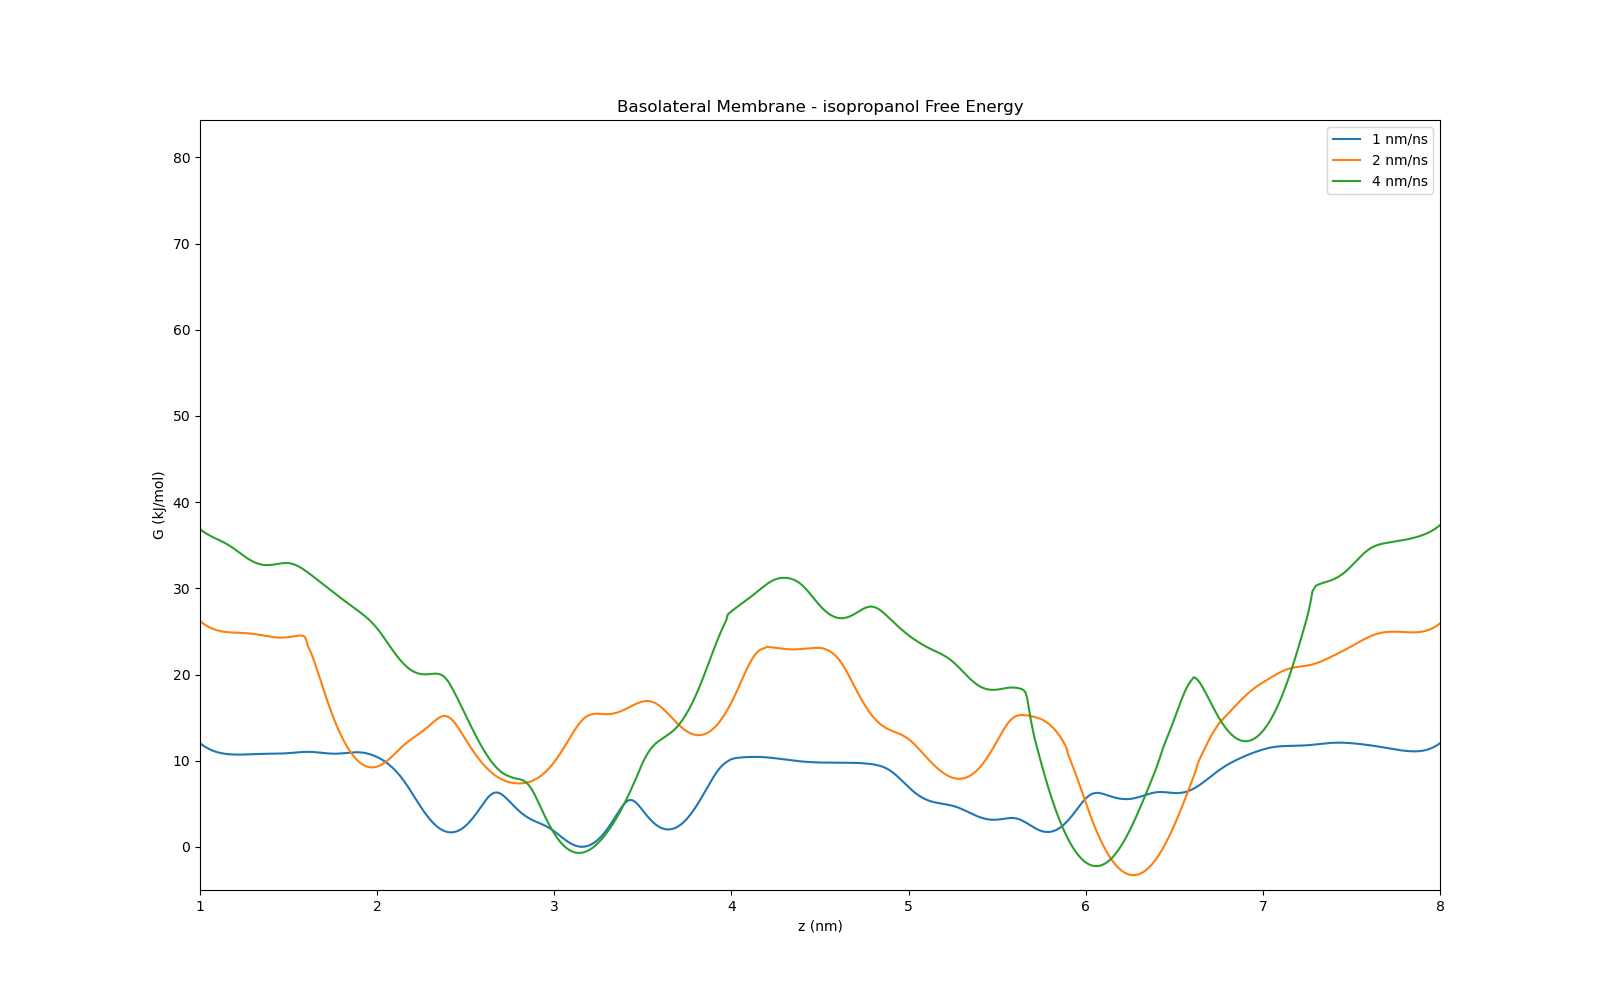
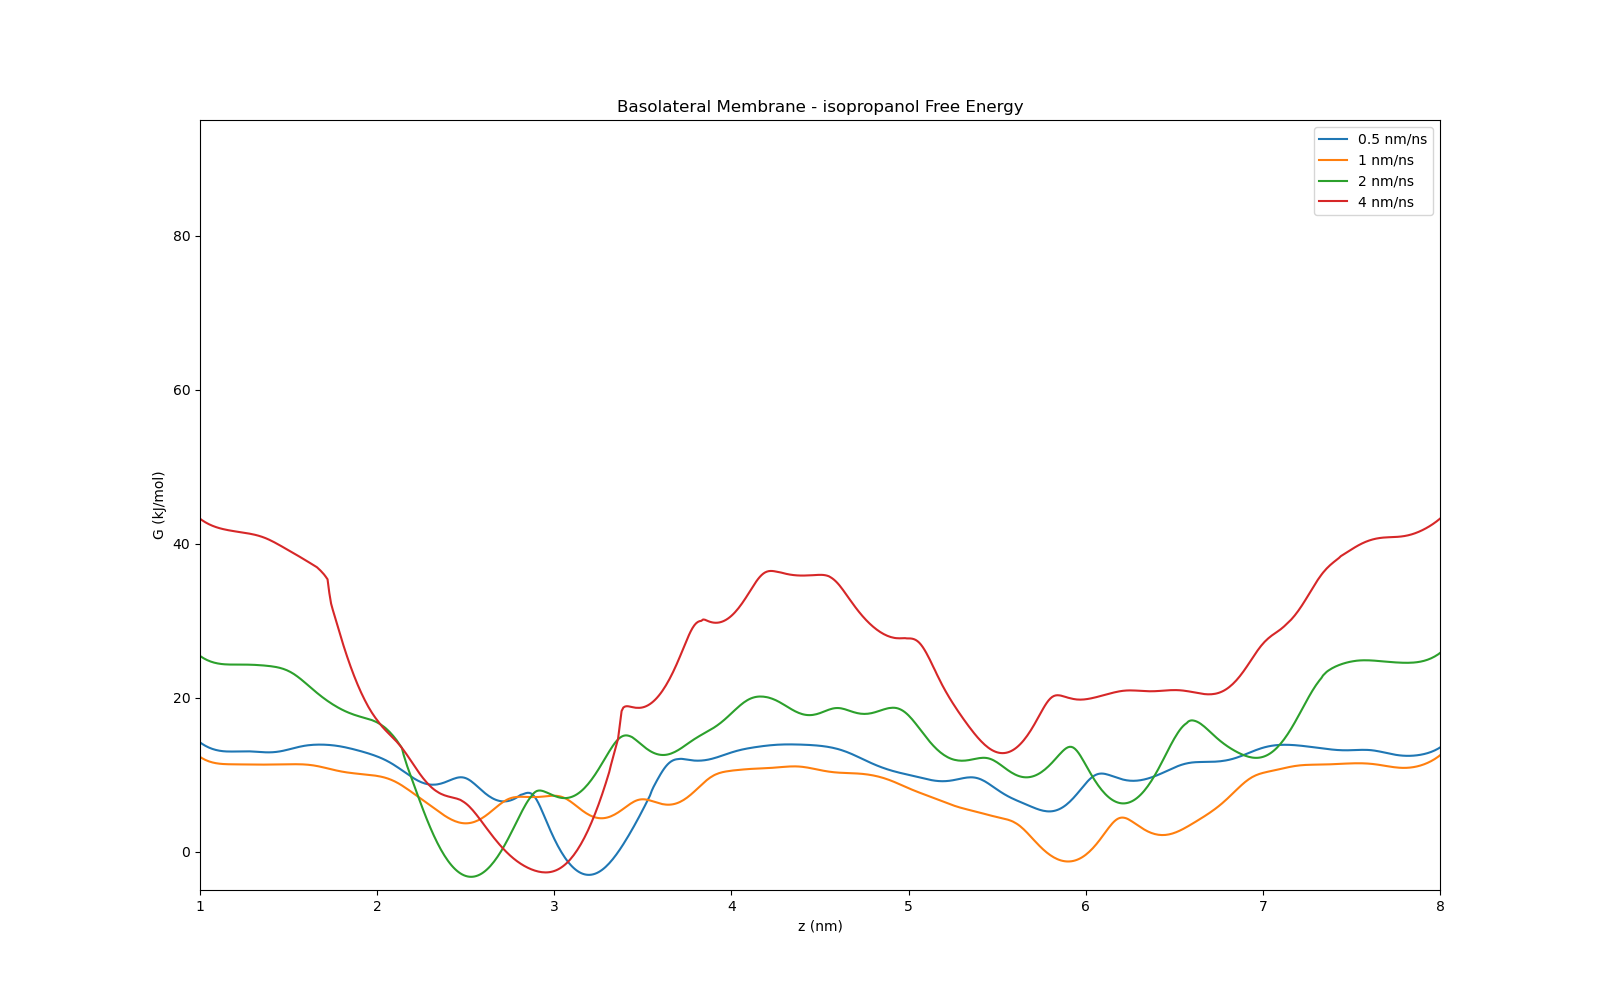
Add new plots for results

diff --git a/common/plotting/plot_fe.py b/common/plotting/plot_fe.py
@@ -39,7 +39,7 @@ if len(sys.argv) == 1:
         ('Apical Membrane', '../../apical/charmm-gui-2960669761-charmm36-nacl/gromacs/', './apical/'),
         ('Basolateral Membrane', '../../basolateral/charmm-gui-2960967181-nacl-charmm36/gromacs/', './basolateral/')]
     molecules = ['isopropanol', 'caffeine', 'morphine-6-glucuronide', 'sucrose']
-    configurations = [(1, 'slow'), (2, 'fast'), (4, 'vfast')]
+    configurations = [(0.5, 'vslow'), (1, 'slow'), (2, 'fast'), (4, 'vfast')]
     
     for membrane_name, membrane_fn, out_fn in membranes:
         os.makedirs(out_fn, exist_ok=True)
